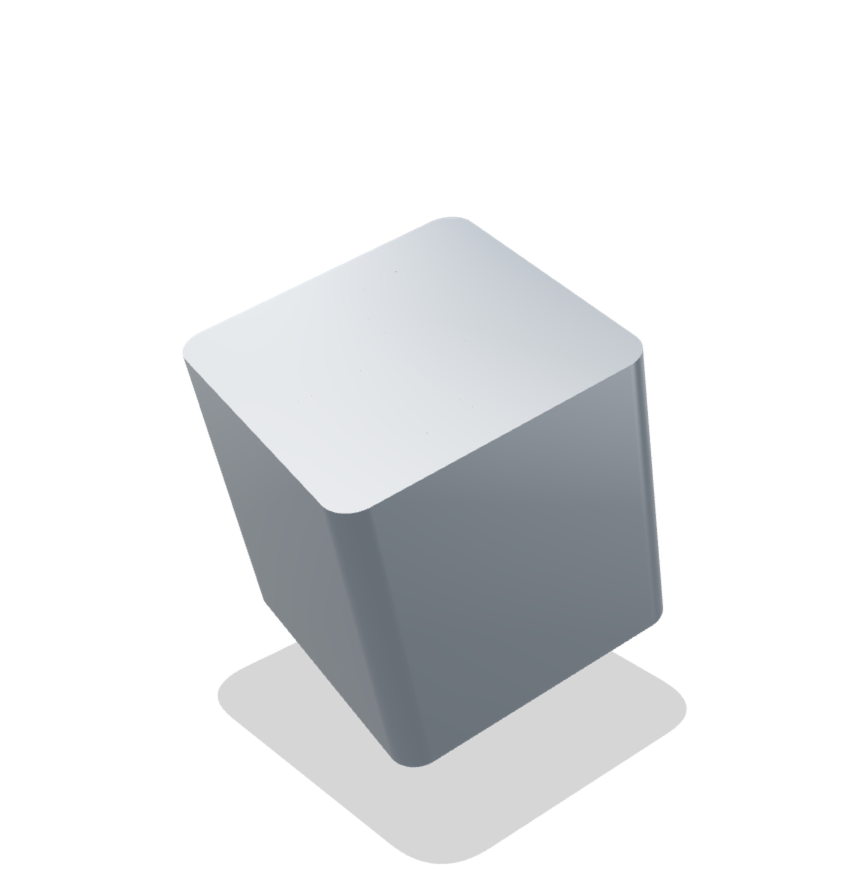
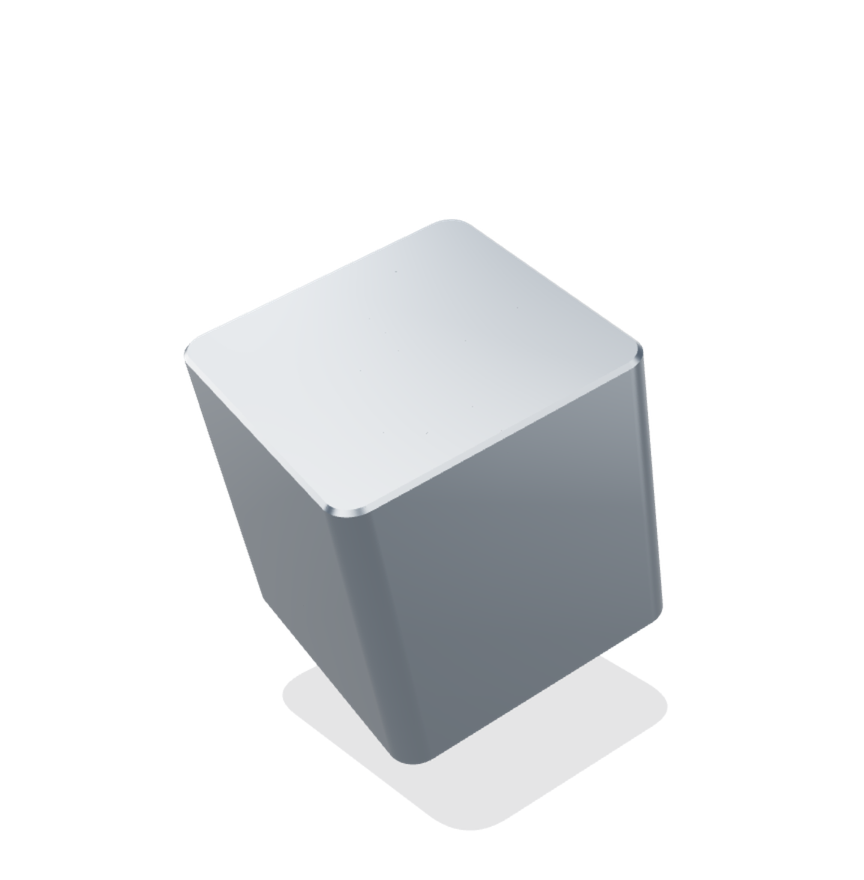
Chamfer bevel changes

diff --git a/src/scripts/samplePart3d.ts b/src/scripts/samplePart3d.ts
@@ -156,17 +156,58 @@ function seamWithKnob(
  * The full cube is this shape rotated into all four quadrants - each piece
  * grips the next, releasing only along the cutting axis.
  */
-function puzzleQuadrant(S: number): THREE.Shape {
-  const r = 0.17; // rounded outer corner, so the cube's vertical edges read soft
+function puzzleQuadrant(S: number, r: number): THREE.Shape {
   const q = new THREE.Shape();
   q.moveTo(0, 0);
   seamWithKnob(q, 0, 0, S, 0, -1); // out to the east rim, neighbour's notch
   q.lineTo(S, S - r);
-  q.absarc(S - r, S - r, r, 0, Math.PI / 2, false);
+  q.absarc(S - r, S - r, r, 0, Math.PI / 2, false); // smooth rounded vertical edge
   q.lineTo(0, S);
   seamWithKnob(q, 0, S, 0, 0, 1); // back to centre, own tab bulging sideways
   q.closePath();
   return q;
+}
+
+/**
+ * Chamfer the outer rim of the extruded block only. The cap-plane vertices
+ * that sit on the outer walls (x = S, y = S, or the rounded corner arc) move
+ * inward by `ch`, so the first and last wall slice become a flat chamfer band.
+ * The seam and knob contours never match the outer-wall tests, so the
+ * wire-cut faces keep their dead-sharp edges. Runs in shape space, before the
+ * geometry is rotated upright.
+ */
+function chamferOuterRim(
+  geo: THREE.BufferGeometry,
+  S: number,
+  r: number,
+  depth: number,
+  ch: number,
+) {
+  const pos = geo.getAttribute("position") as THREE.BufferAttribute;
+  const eps = 1e-3;
+  const c = S - r; // corner arc centre (c, c)
+  for (let i = 0; i < pos.count; i++) {
+    const z = pos.getZ(i);
+    if (z > eps && z < depth - eps) continue; // only the two cap-plane rings
+    const x = pos.getX(i);
+    const y = pos.getY(i);
+    let nx = 0;
+    let ny = 0;
+    if (Math.abs(x - S) < eps) nx = -1;
+    else if (Math.abs(y - S) < eps) ny = -1;
+    else if (x > c - eps && y > c - eps) {
+      const dx = x - c;
+      const dy = y - c;
+      const d = Math.hypot(dx, dy);
+      if (Math.abs(d - r) < eps) {
+        nx = -dx / d;
+        ny = -dy / d;
+      }
+    }
+    if (nx || ny) pos.setXY(i, x + nx * ch, y + ny * ch);
+  }
+  pos.needsUpdate = true;
+  geo.computeVertexNormals();
 }
 
 export interface SamplePartOptions {
@@ -242,9 +283,24 @@ export async function initSamplePart(
 
   if (chrome) {
     // Puzzle cube: one quadrant block, rotated into all four positions.
-    // No extrude bevel: seam and knob edges stay dead sharp; vertical corners keep
-    // their radius from the 2D outline
-    const template = extrudePiece(puzzleQuadrant(0.92), steel, 1.9, 24, 0);
+    // No extrude bevel (seam and knob edges stay dead sharp); the outer rim
+    // gets its machined chamfer from chamferOuterRim instead, and the vertical
+    // edges keep their smooth radius from the 2D outline
+    const CUBE_S = 0.92;
+    const CUBE_R = 0.17;
+    const CUBE_DEPTH = 1.9;
+    const geo = new THREE.ExtrudeGeometry(puzzleQuadrant(CUBE_S, CUBE_R), {
+      depth: CUBE_DEPTH,
+      bevelEnabled: false,
+      curveSegments: 24,
+      // Wall rings every ~0.025 so the rim displacement forms a short chamfer
+      // band instead of tapering the whole wall
+      steps: 78,
+    });
+    chamferOuterRim(geo, CUBE_S, CUBE_R, CUBE_DEPTH, 0.0245);
+    geo.rotateX(-Math.PI / 2);
+    geo.translate(0, -CUBE_DEPTH / 2, 0);
+    const template = new THREE.Mesh(geo, steel);
     const blocks = [0, 1, 2, 3].map((k) => {
       const m = k === 0 ? template : new THREE.Mesh(template.geometry, steel);
       m.rotation.y = (k * Math.PI) / 2;
@@ -285,8 +341,8 @@ export async function initSamplePart(
   // Resting yaw: the cube sits turned 45° to the right, corner to the camera
   const baseRotY = chrome ? 0.35 - Math.PI / 4 : 0.35;
 
-  // Ground shadow (fake, cheap). A rounded square under the cube, matching its
-  // resting yaw and soft corners; a soft disc under the rings
+  // Ground shadow (fake, cheap). A rounded square under the cube, matching
+  // its resting yaw and soft corners; a soft disc under the rings
   const shadowShape = new THREE.Shape();
   {
     const w = 2.5;
@@ -307,15 +363,16 @@ export async function initSamplePart(
     new THREE.MeshBasicMaterial({
       color: chrome ? 0x0b0e16 : 0x10162e,
       transparent: true,
-      opacity: chrome ? 0.16 : 0.28,
+      opacity: chrome ? 0.1 : 0.28,
+      depthWrite: false,
     }),
   );
   // Yaw nudged past the cube's resting angle to line up with its tilted
   // footprint, and offset toward the lean so it reads as cast by the cube
   shadow.rotation.set(-Math.PI / 2, 0, chrome ? baseRotY + 0.18 : 0);
   if (chrome) {
-    shadow.position.set(0.3, -2.15, 0.15);
-    shadow.scale.setScalar(1.3); // grows with the cube
+    shadow.position.set(0.3, -2.4, -0.25);
+    shadow.scale.setScalar(1.1); // grows with the cube
   } else {
     shadow.position.y = -BLANK_HEIGHT / 2 - 0.02;
   }
@@ -458,6 +515,16 @@ export async function initSamplePart(
       explode += (targetExplode - explode) * k;
       if (!hovering && !chrome) rotY += dt * 0.12; // slow idle turn (rings only)
       part.rotation.set(tiltX, rotY, 0);
+      // The square ground shadow follows the cube: it turns with the yaw
+      // (+0.18 keeps its resting offset) and, as the cube leans with the
+      // pointer, stretches toward the camera and slides with the lean the way
+      // a cast silhouette would. Local y maps to world z once laid flat.
+      if (chrome) {
+        shadow.rotation.z = rotY + 0.18;
+        const lean = tiltX - baseTiltX;
+        shadow.scale.set(1.1, 1.1 * (1 + lean * 0.9), 1.1);
+        shadow.position.z = -0.25 + lean * 1.1;
+      }
       applyExplode(explode);
     }
 
